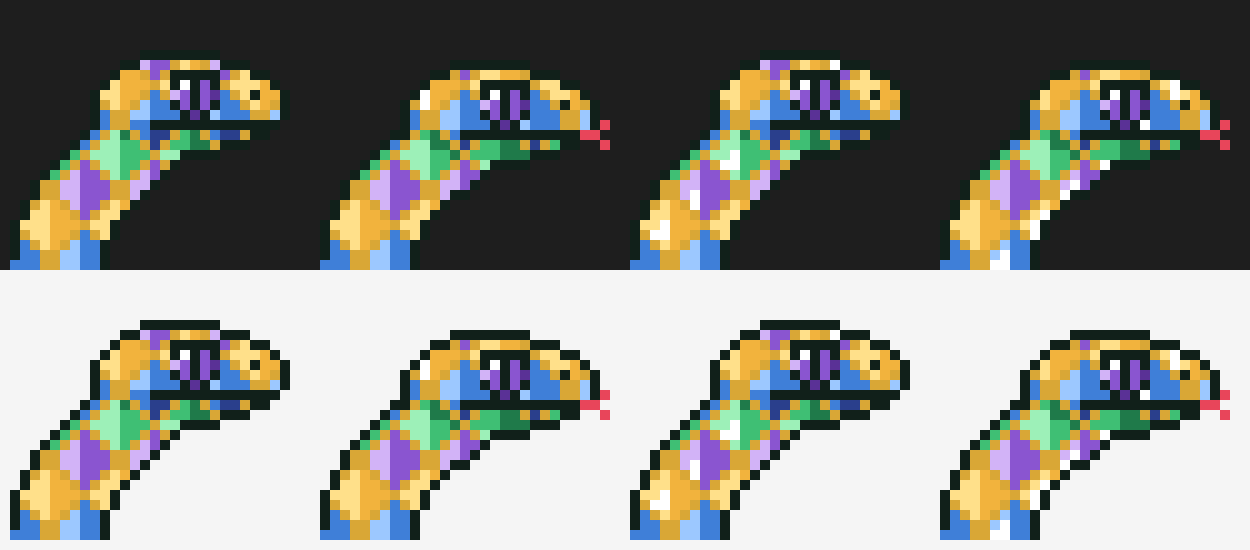
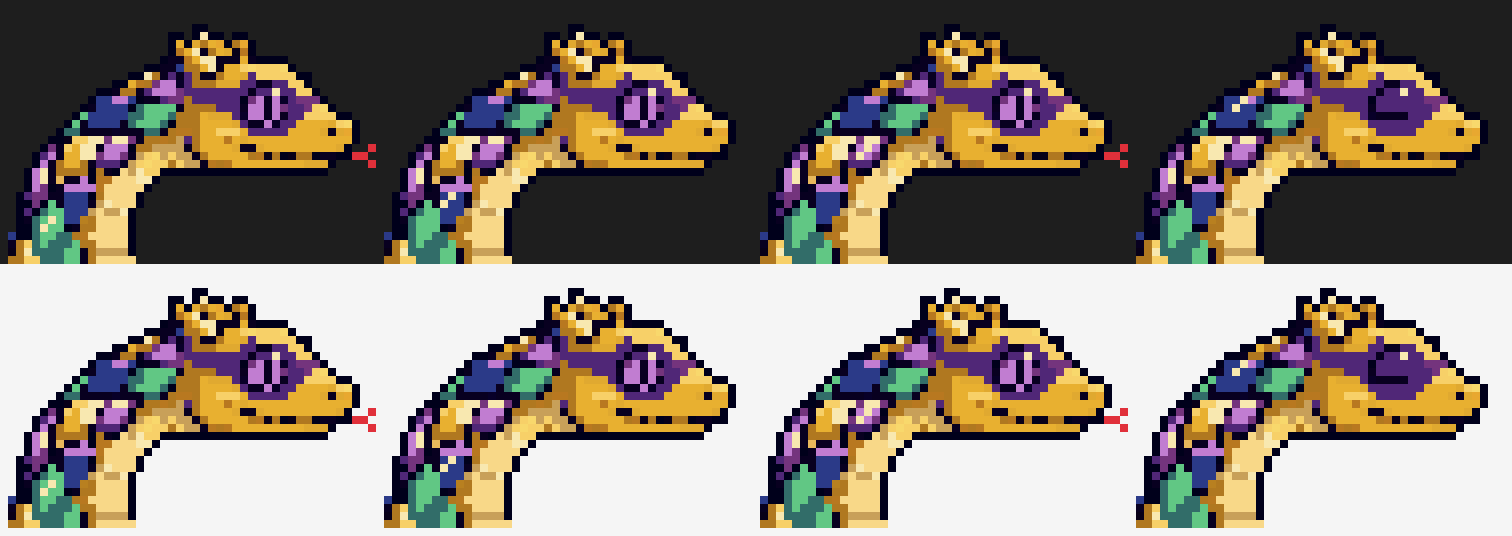
P5-26: redraw Gemsnake from @danielpg95's reference

diff --git a/plugin/content/CREDITS.md b/plugin/content/CREDITS.md
@@ -30,7 +30,7 @@ noted (decision 0011). Add a row whenever you add or change an asset.
 | `modsters/prismite/sprite.png` | @danielpg95 (drawn with Claude Code) | CC BY 4.0 | Prismite, redrawn in P5-26 from @danielpg95's reference |
 | `modsters/quartzclaw/sprite.png` | @danielpg95 (drawn with Claude Code) | CC BY 4.0 | Quartzclaw, redrawn in P5-26 from @danielpg95's reference |
 | `modsters/geodon/sprite.png` | @danielpg95 (drawn with Claude Code) | CC BY 4.0 | Geodon, redrawn in P5-26 from @danielpg95's reference |
-| `modsters/gemsnake/sprite.png` | @danielpg95 (drawn with Claude Code) | CC BY 4.0 | Crystal Grotto |
+| `modsters/gemsnake/sprite.png` | @danielpg95 (drawn with Claude Code) | CC BY 4.0 | Gemsnake, redrawn in P5-26 from @danielpg95's reference |
 | `modsters/amethowl/sprite.png` | @danielpg95 (drawn with Claude Code) | CC BY 4.0 | Crystal Grotto |
 | `modsters/geolem/sprite.png` | @danielpg95 (drawn with Claude Code) | CC BY 4.0 | Crystal Grotto |
 | `modsters/pinekin/sprite.png` | @danielpg95 (drawn with Claude Code) | CC BY 4.0 | P5-19 |
